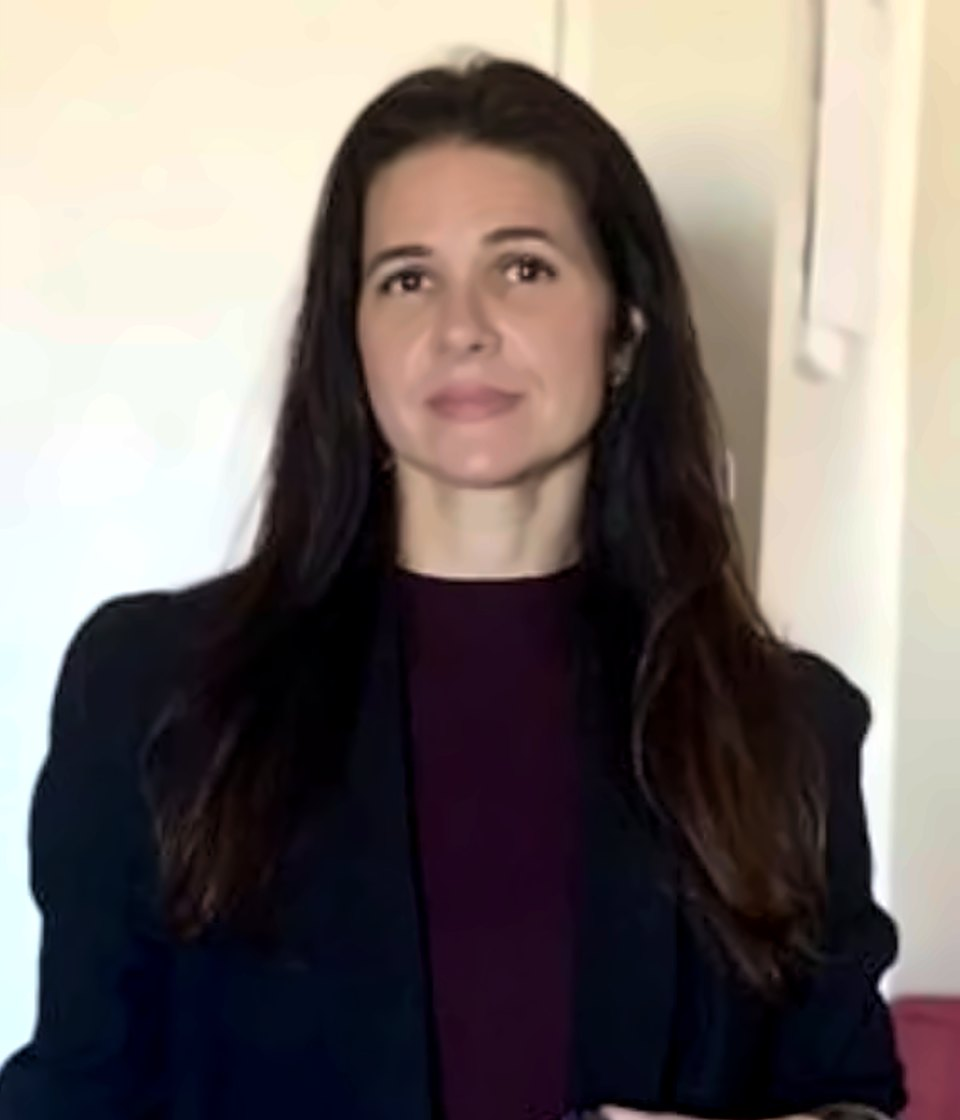
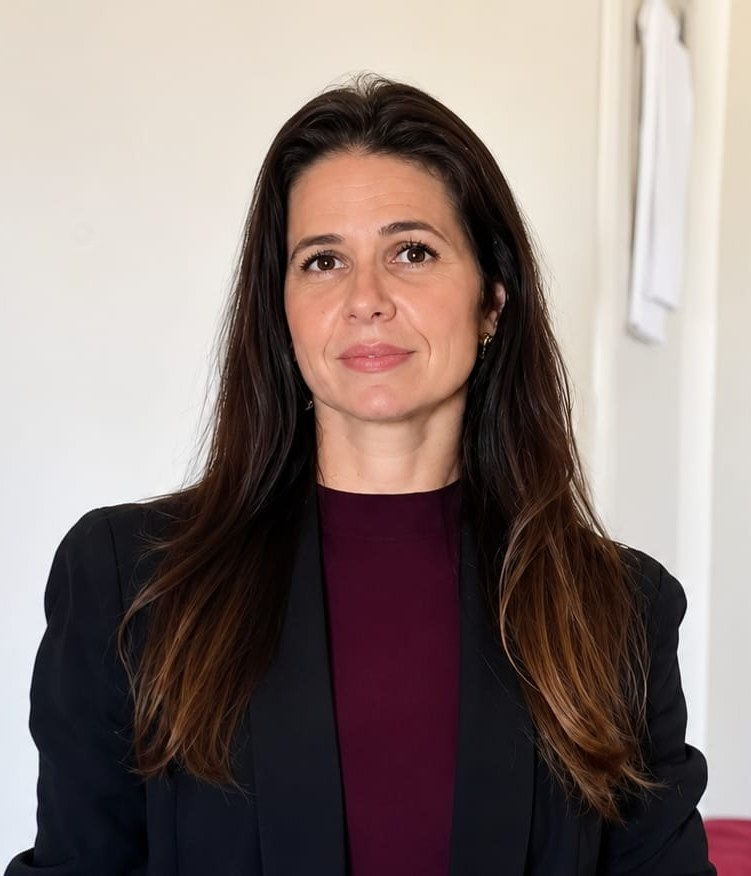
Nova foto da Carla
Claude-Session: https://claude.ai/code/session_01WwomsGs3j5YB3sqZeoTXbB

diff --git a/public/index.html b/public/index.html
@@ -189,7 +189,7 @@
       <div class="photo-frame">
         <picture>
           <source srcset="/img/carla-jansen.webp" type="image/webp">
-          <img src="/img/carla-jansen.jpg" alt="Carla Jansen, corretora de planos de saúde da Futura Rio no Rio de Janeiro" width="600" height="700" fetchpriority="high">
+          <img src="/img/carla-jansen.jpg" alt="Carla Jansen, corretora de planos de saúde da Futura Rio no Rio de Janeiro" width="751" height="876" fetchpriority="high">
         </picture>
       </div>
       <figcaption class="badge-card">
@@ -305,7 +305,7 @@
       <figure class="sobre__photo">
         <picture>
           <source srcset="/img/carla-jansen.webp" type="image/webp">
-          <img src="/img/carla-jansen.jpg" alt="Carla Jansen, corretora de planos de saúde há mais de 10 anos no Rio de Janeiro" width="600" height="700" loading="lazy">
+          <img src="/img/carla-jansen.jpg" alt="Carla Jansen, corretora de planos de saúde há mais de 10 anos no Rio de Janeiro" width="751" height="876" loading="lazy">
         </picture>
       </figure>
       <div class="sobre__exp" aria-hidden="true">

diff --git a/README.md b/README.md
@@ -46,7 +46,7 @@ Os leads ficam em `DATA_DIR/leads.json`. Use uma pasta/volume **persistente** e 
 
 | O que | Onde |
 |---|---|
-| Foto profissional da Carla (substituir `carla-jansen.jpg`/`.webp`, 600×700) | `public/img/` |
+| Foto profissional da Carla (substituir `carla-jansen.jpg`/`.webp`, 751×876) | `public/img/` |
 | Cores: azul #2B4C7F, azul profundo #0B386F, laranja #FE6E25 | `public/css/style.css` |
 | Logo (versão em alta resolução, PNG ou SVG) | `public/img/logo-futura-rio.png` |
 
